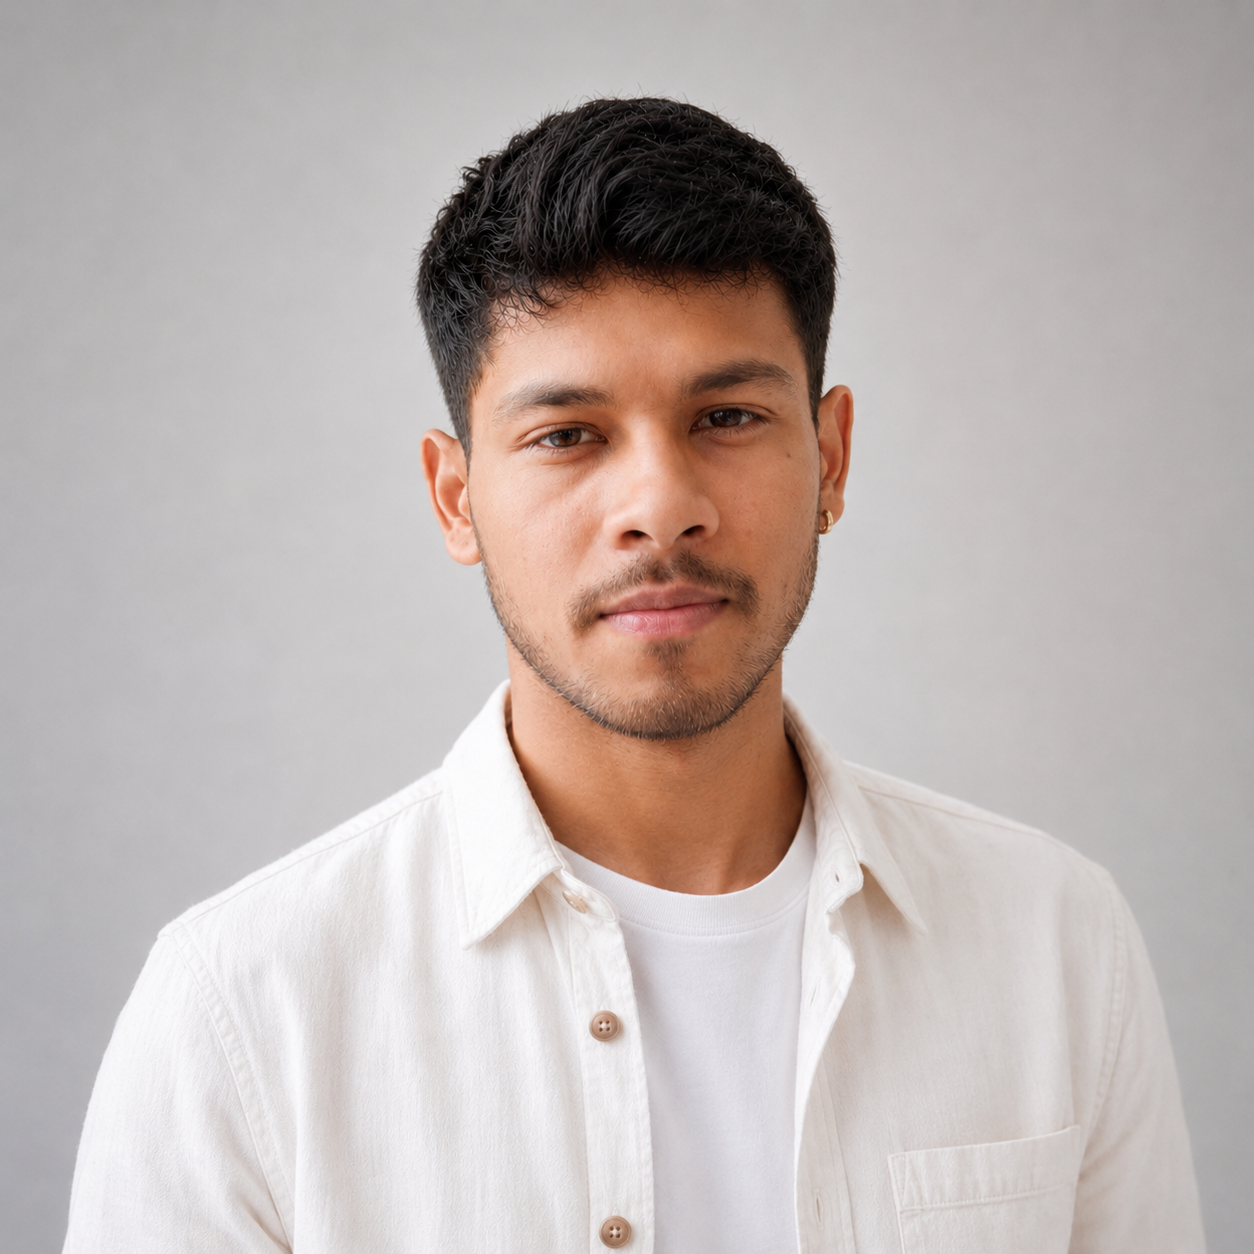
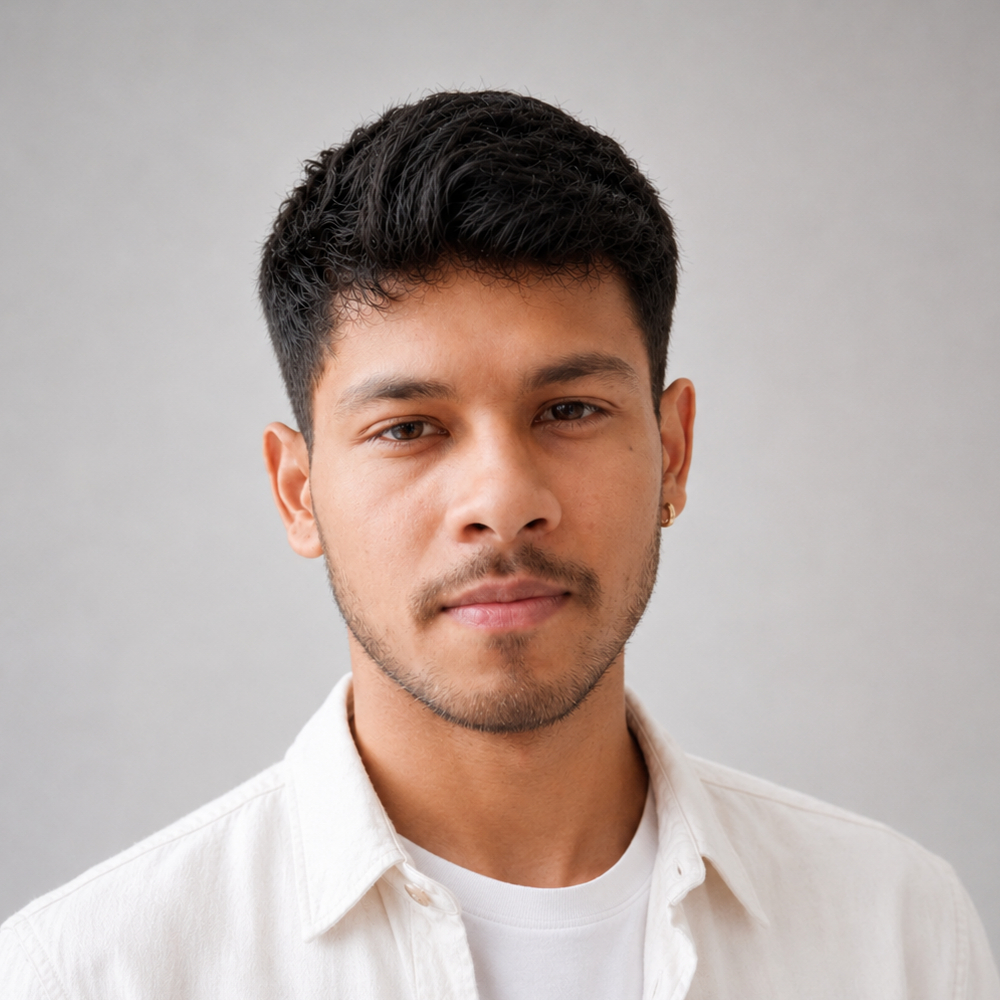
Add files via upload

diff --git a/index.css b/index.css
@@ -2593,3 +2593,27 @@ h1, h2, h3, h4, h5, h6 {
         transform: translateY(0);
     }
 }
+
+@media (max-width: 768px) {
+    .copyright-desktop {
+        display: none !important;
+    }
+    .copyright-mobile {
+        display: block !important;
+        text-align: center;
+        margin-top: 2.5rem;
+        margin-bottom: 1.5rem;
+        color: var(--text-secondary);
+    }
+}
+@media (min-width: 769px) {
+    .copyright-mobile {
+        display: none !important;
+    }
+}
+
+@media (max-width: 768px) {
+    .container {
+        padding: 0 1rem !important;
+    }
+}

diff --git a/about.html b/about.html
@@ -7,7 +7,7 @@
     <link href="https://fonts.googleapis.com/css2?family=Be+Vietnam+Pro:wght@400;500;600;700;800;900&display=swap" rel="stylesheet">
     <link href="https://fonts.googleapis.com/css2?family=Poppins:wght@300;400;600;800;900&display=swap" rel="stylesheet">
     <link rel="icon" type="image/svg+xml" href="favicon.svg">
-    <link rel="stylesheet" href="index.css?v=43">
+    <link rel="stylesheet" href="index.css?v=47">
     <link rel="stylesheet" href="https://cdnjs.cloudflare.com/ajax/libs/font-awesome/6.4.0/css/all.min.css">
     <style>
         .about-content {
@@ -101,7 +101,7 @@
                 
                 <div class="mission-box" style="display: flex; gap: 2rem; align-items: center; flex-wrap: wrap;">
                     <div style="flex-shrink: 0; width: 150px; height: 150px; border-radius: 50%; background-color: rgba(139, 92, 246, 0.1); border: 2px solid var(--accent-primary); display: flex; align-items: center; justify-content: center; overflow: hidden;">
-                        <img src="abhishek_jalal.png?v=2" alt="Abhishek Jalal" style="width: 100%; height: 100%; object-fit: cover; object-position: center; transform: scale(1.15) translateY(5px);">
+                        <img src="abhishek_jalal.png?v=3" alt="Abhishek Jalal" style="width: 100%; height: 100%; object-fit: cover; object-position: center; transform: scale(1.3) translateY(5px);">
                     </div>
                     <div style="flex: 1; min-width: 250px;">
                         <p>"Hi, I'm <span style="color: var(--accent-primary); font-weight: 700;">Abhishek Jalal</span>, founder of <span style="color: #FFFFFF; font-weight: 700;">Elitelab</span><span style="color: var(--accent-primary); font-weight: 700;">.in</span>. With over 3 years of trading experience, I built this platform to cut through the noise and make profitable trading accessible and easy for everyday retail traders."</p>
@@ -158,7 +158,7 @@
                     <i class="fa-regular fa-envelope" style="margin-right: 0.5rem;"></i> 
                     <a href="mailto:[email redacted]" style="color: var(--text-secondary); text-decoration: none;">[email redacted]</a>
                 </p>
-                <p>&copy; 2026 Elitelab.in. All rights reserved.</p>
+                <p class="copyright-desktop">&copy; 2026 Elitelab.in. All rights reserved.</p>
             </div>
             <div class="footer-links">
                 <a href="/privacy">Privacy Policy</a>
@@ -166,6 +166,7 @@
                 <a href="/contact">Contact Support</a>
             </div>
         </div>
+        <div class="copyright-mobile"><p>&copy; 2026 Elitelab.in. All rights reserved.</p></div>
         <div class="container footer-disclaimer">
             <p><strong>Disclaimer:</strong> Trading in financial markets involves a high degree of risk and may not be suitable for all investors. The data, scans, and information provided by Elitelab are for educational and informational purposes only and do not constitute financial advice or trade recommendations. Past performance is not indicative of future results. Always conduct your own research or consult with a qualified, registered financial advisor before making any investment decisions.</p>
         </div>

diff --git a/article-detail.html b/article-detail.html
@@ -8,7 +8,7 @@
     <link href="https://fonts.googleapis.com/css2?family=Be+Vietnam+Pro:wght@400;500;600;700;800;900&display=swap" rel="stylesheet">
     <link href="https://fonts.googleapis.com/css2?family=Poppins:wght@300;400;600;800;900&family=Lora:ital,wght@0,400;0,600;1,400&display=swap" rel="stylesheet">
     <link rel="icon" type="image/svg+xml" href="favicon.svg">
-    <link rel="stylesheet" href="index.css?v=43">
+    <link rel="stylesheet" href="index.css?v=47">
     <link rel="stylesheet" href="https://cdnjs.cloudflare.com/ajax/libs/font-awesome/6.4.0/css/all.min.css">
     <style>
         .article-container {
@@ -289,7 +289,7 @@
                     <i class="fa-regular fa-envelope" style="margin-right: 0.5rem;"></i> 
                     <a href="mailto:[email redacted]" style="color: var(--text-secondary); text-decoration: none;">[email redacted]</a>
                 </p>
-                <p>&copy; 2026 Elitelab.in. All rights reserved.</p>
+                <p class="copyright-desktop">&copy; 2026 Elitelab.in. All rights reserved.</p>
             </div>
             <div class="footer-links">
                 <a href="/privacy">Privacy Policy</a>
@@ -297,6 +297,7 @@
                 <a href="/contact">Contact Support</a>
             </div>
         </div>
+        <div class="copyright-mobile"><p>&copy; 2026 Elitelab.in. All rights reserved.</p></div>
         <div class="container footer-disclaimer">
             <p><strong>Disclaimer:</strong> Trading in financial markets involves a high degree of risk and may not be suitable for all investors. The data, scans, and information provided by Elitelab are for educational and informational purposes only and do not constitute financial advice or trade recommendations. Past performance is not indicative of future results. Always conduct your own research or consult with a qualified, registered financial advisor before making any investment decisions.</p>
         </div>

diff --git a/articles.html b/articles.html
@@ -8,7 +8,7 @@
     <link href="https://fonts.googleapis.com/css2?family=Be+Vietnam+Pro:wght@400;500;600;700;800;900&display=swap" rel="stylesheet">
     <link href="https://fonts.googleapis.com/css2?family=Poppins:wght@300;400;600;800;900&display=swap" rel="stylesheet">
     <link rel="icon" type="image/svg+xml" href="favicon.svg">
-    <link rel="stylesheet" href="index.css?v=43">
+    <link rel="stylesheet" href="index.css?v=47">
     <link rel="stylesheet" href="https://cdnjs.cloudflare.com/ajax/libs/font-awesome/6.4.0/css/all.min.css">
     <style>
         .category-pills {
@@ -315,7 +315,7 @@
                     <i class="fa-regular fa-envelope" style="margin-right: 0.5rem;"></i> 
                     <a href="mailto:[email redacted]" style="color: var(--text-secondary); text-decoration: none;">[email redacted]</a>
                 </p>
-                <p>&copy; 2026 Elitelab.in. All rights reserved.</p>
+                <p class="copyright-desktop">&copy; 2026 Elitelab.in. All rights reserved.</p>
             </div>
             <div class="footer-links">
                 <a href="/privacy">Privacy Policy</a>
@@ -323,6 +323,7 @@
                 <a href="/contact">Contact Support</a>
             </div>
         </div>
+        <div class="copyright-mobile"><p>&copy; 2026 Elitelab.in. All rights reserved.</p></div>
         <div class="container footer-disclaimer">
             <p><strong>Disclaimer:</strong> Trading in financial markets involves a high degree of risk and may not be suitable for all investors. The data, scans, and information provided by Elitelab are for educational and informational purposes only and do not constitute financial advice or trade recommendations. Past performance is not indicative of future results. Always conduct your own research or consult with a qualified, registered financial advisor before making any investment decisions.</p>
         </div>

diff --git a/contact.html b/contact.html
@@ -8,7 +8,7 @@
     <link href="https://fonts.googleapis.com/css2?family=Be+Vietnam+Pro:wght@400;500;600;700;800;900&display=swap" rel="stylesheet">
     <link href="https://fonts.googleapis.com/css2?family=Poppins:wght@300;400;600;800;900&display=swap" rel="stylesheet">
     <link rel="icon" type="image/svg+xml" href="favicon.svg">
-    <link rel="stylesheet" href="index.css?v=43">
+    <link rel="stylesheet" href="index.css?v=47">
     <link rel="stylesheet" href="https://cdnjs.cloudflare.com/ajax/libs/font-awesome/6.4.0/css/all.min.css">
 </head>
 <body>
@@ -120,7 +120,7 @@
                     <i class="fa-regular fa-envelope" style="margin-right: 0.5rem;"></i> 
                     <a href="mailto:[email redacted]" style="color: var(--text-secondary); text-decoration: none;">[email redacted]</a>
                 </p>
-                <p>&copy; 2026 Elitelab.in. All rights reserved.</p>
+                <p class="copyright-desktop">&copy; 2026 Elitelab.in. All rights reserved.</p>
             </div>
             <div class="footer-links">
                 <a href="/privacy">Privacy Policy</a>
@@ -128,6 +128,7 @@
                 <a href="/contact">Contact Support</a>
             </div>
         </div>
+        <div class="copyright-mobile"><p>&copy; 2026 Elitelab.in. All rights reserved.</p></div>
         <div class="container footer-disclaimer">
             <p><strong>Disclaimer:</strong> Trading in financial markets involves a high degree of risk and may not be suitable for all investors. The data, scans, and information provided by Elitelab are for educational and informational purposes only and do not constitute financial advice or trade recommendations. Past performance is not indicative of future results. Always conduct your own research or consult with a qualified, registered financial advisor before making any investment decisions.</p>
         </div>

diff --git a/fundamentals.html b/fundamentals.html
@@ -8,7 +8,7 @@
     <link href="https://fonts.googleapis.com/css2?family=Be+Vietnam+Pro:wght@400;500;600;700;800;900&display=swap" rel="stylesheet">
     <link href="https://fonts.googleapis.com/css2?family=Poppins:wght@300;400;600;800;900&display=swap" rel="stylesheet">
     <link rel="icon" type="image/svg+xml" href="favicon.svg">
-    <link rel="stylesheet" href="index.css?v=43">
+    <link rel="stylesheet" href="index.css?v=47">
     <link rel="stylesheet" href="https://cdnjs.cloudflare.com/ajax/libs/font-awesome/6.4.0/css/all.min.css">
     <!-- Chart.js for the price chart and bar charts -->
     <script src="https://cdn.jsdelivr.net/npm/chart.js"></script>
@@ -387,7 +387,7 @@
                     <i class="fa-regular fa-envelope" style="margin-right: 0.5rem;"></i> 
                     <a href="mailto:[email redacted]" style="color: var(--text-secondary); text-decoration: none;">[email redacted]</a>
                 </p>
-                <p>&copy; 2026 Elitelab.in. All rights reserved.</p>
+                <p class="copyright-desktop">&copy; 2026 Elitelab.in. All rights reserved.</p>
             </div>
             <div class="footer-links">
                 <a href="/privacy">Privacy Policy</a>
@@ -395,6 +395,7 @@
                 <a href="/contact">Contact Support</a>
             </div>
         </div>
+        <div class="copyright-mobile"><p>&copy; 2026 Elitelab.in. All rights reserved.</p></div>
         <div class="container footer-disclaimer">
             <p><strong>Disclaimer:</strong> Trading in financial markets involves a high degree of risk and may not be suitable for all investors. The data, scans, and information provided by Elitelab are for educational and informational purposes only and do not constitute financial advice or trade recommendations. Past performance is not indicative of future results. Always conduct your own research or consult with a qualified, registered financial advisor before making any investment decisions.</p>
         </div>

diff --git a/index.html b/index.html
@@ -8,7 +8,7 @@
     <link href="https://fonts.googleapis.com/css2?family=Be+Vietnam+Pro:wght@400;500;600;700;800;900&display=swap" rel="stylesheet">
     <link href="https://fonts.googleapis.com/css2?family=Poppins:wght@300;400;600;800;900&display=swap" rel="stylesheet">
     <link rel="icon" type="image/svg+xml" href="favicon.svg">
-    <link rel="stylesheet" href="index.css?v=43">
+    <link rel="stylesheet" href="index.css?v=47">
     <link rel="stylesheet" href="https://cdnjs.cloudflare.com/ajax/libs/font-awesome/6.4.0/css/all.min.css">
 </head>
 <body>
@@ -137,7 +137,7 @@
                     <i class="fa-regular fa-envelope" style="margin-right: 0.5rem;"></i> 
                     <a href="mailto:[email redacted]" style="color: var(--text-secondary); text-decoration: none;">[email redacted]</a>
                 </p>
-                <p>&copy; 2026 Elitelab.in. All rights reserved.</p>
+                <p class="copyright-desktop">&copy; 2026 Elitelab.in. All rights reserved.</p>
             </div>
             <div class="footer-links">
                 <a href="/privacy">Privacy Policy</a>
@@ -145,6 +145,7 @@
                 <a href="/contact">Contact Support</a>
             </div>
         </div>
+        <div class="copyright-mobile"><p>&copy; 2026 Elitelab.in. All rights reserved.</p></div>
         <div class="container footer-disclaimer">
             <p><strong>Disclaimer:</strong> Trading in financial markets involves a high degree of risk and may not be suitable for all investors. The data, scans, and information provided by Elitelab are for educational and informational purposes only and do not constitute financial advice or trade recommendations. Past performance is not indicative of future results. Always conduct your own research or consult with a qualified, registered financial advisor before making any investment decisions.</p>
         </div>

diff --git a/indian-market-news.html b/indian-market-news.html
@@ -8,7 +8,7 @@
     <link href="https://fonts.googleapis.com/css2?family=Be+Vietnam+Pro:wght@400;500;600;700;800;900&display=swap" rel="stylesheet">
     <link href="https://fonts.googleapis.com/css2?family=Poppins:wght@300;400;600;800;900&display=swap" rel="stylesheet">
     <link rel="icon" type="image/svg+xml" href="favicon.svg">
-    <link rel="stylesheet" href="index.css?v=43">
+    <link rel="stylesheet" href="index.css?v=47">
     <link rel="stylesheet" href="https://cdnjs.cloudflare.com/ajax/libs/font-awesome/6.4.0/css/all.min.css">
 </head>
 <body>
@@ -91,7 +91,7 @@
                     <i class="fa-regular fa-envelope" style="margin-right: 0.5rem;"></i> 
                     <a href="mailto:[email redacted]" style="color: var(--text-secondary); text-decoration: none;">[email redacted]</a>
                 </p>
-                <p>&copy; 2026 Elitelab.in. All rights reserved.</p>
+                <p class="copyright-desktop">&copy; 2026 Elitelab.in. All rights reserved.</p>
             </div>
             <div class="footer-links">
                 <a href="/privacy">Privacy Policy</a>
@@ -99,6 +99,7 @@
                 <a href="/contact">Contact Support</a>
             </div>
         </div>
+        <div class="copyright-mobile"><p>&copy; 2026 Elitelab.in. All rights reserved.</p></div>
         <div class="container footer-disclaimer">
             <p><strong>Disclaimer:</strong> Trading in financial markets involves a high degree of risk and may not be suitable for all investors. The data, scans, and information provided by Elitelab are for educational and informational purposes only and do not constitute financial advice or trade recommendations. Past performance is not indicative of future results. Always conduct your own research or consult with a qualified, registered financial advisor before making any investment decisions.</p>
         </div>

diff --git a/privacy.html b/privacy.html
@@ -8,7 +8,7 @@
     <link href="https://fonts.googleapis.com/css2?family=Be+Vietnam+Pro:wght@400;500;600;700;800;900&display=swap" rel="stylesheet">
     <link href="https://fonts.googleapis.com/css2?family=Poppins:wght@300;400;600;800;900&display=swap" rel="stylesheet">
     <link rel="icon" type="image/svg+xml" href="favicon.svg">
-    <link rel="stylesheet" href="index.css?v=43">
+    <link rel="stylesheet" href="index.css?v=47">
     <link rel="stylesheet" href="https://cdnjs.cloudflare.com/ajax/libs/font-awesome/6.4.0/css/all.min.css">
     <style>
         .legal-content {
@@ -128,7 +128,7 @@
                     <i class="fa-regular fa-envelope" style="margin-right: 0.5rem;"></i> 
                     <a href="mailto:[email redacted]" style="color: var(--text-secondary); text-decoration: none;">[email redacted]</a>
                 </p>
-                <p>&copy; 2026 Elitelab.in. All rights reserved.</p>
+                <p class="copyright-desktop">&copy; 2026 Elitelab.in. All rights reserved.</p>
             </div>
             <div class="footer-links">
                 <a href="/privacy">Privacy Policy</a>
@@ -136,6 +136,7 @@
                 <a href="/contact">Contact Support</a>
             </div>
         </div>
+        <div class="copyright-mobile"><p>&copy; 2026 Elitelab.in. All rights reserved.</p></div>
         <div class="container footer-disclaimer">
             <p><strong>Disclaimer:</strong> Trading in financial markets involves a high degree of risk and may not be suitable for all investors. The data, scans, and information provided by Elitelab are for educational and informational purposes only and do not constitute financial advice or trade recommendations. Past performance is not indicative of future results. Always conduct your own research or consult with a qualified, registered financial advisor before making any investment decisions.</p>
         </div>

diff --git a/terms.html b/terms.html
@@ -8,7 +8,7 @@
     <link href="https://fonts.googleapis.com/css2?family=Be+Vietnam+Pro:wght@400;500;600;700;800;900&display=swap" rel="stylesheet">
     <link href="https://fonts.googleapis.com/css2?family=Poppins:wght@300;400;600;800;900&display=swap" rel="stylesheet">
     <link rel="icon" type="image/svg+xml" href="favicon.svg">
-    <link rel="stylesheet" href="index.css?v=43">
+    <link rel="stylesheet" href="index.css?v=47">
     <link rel="stylesheet" href="https://cdnjs.cloudflare.com/ajax/libs/font-awesome/6.4.0/css/all.min.css">
     <style>
         .legal-content {
@@ -129,7 +129,7 @@
                     <i class="fa-regular fa-envelope" style="margin-right: 0.5rem;"></i> 
                     <a href="mailto:[email redacted]" style="color: var(--text-secondary); text-decoration: none;">[email redacted]</a>
                 </p>
-                <p>&copy; 2026 Elitelab.in. All rights reserved.</p>
+                <p class="copyright-desktop">&copy; 2026 Elitelab.in. All rights reserved.</p>
             </div>
             <div class="footer-links">
                 <a href="/privacy">Privacy Policy</a>
@@ -137,6 +137,7 @@
                 <a href="/contact">Contact Support</a>
             </div>
         </div>
+        <div class="copyright-mobile"><p>&copy; 2026 Elitelab.in. All rights reserved.</p></div>
         <div class="container footer-disclaimer">
             <p><strong>Disclaimer:</strong> Trading in financial markets involves a high degree of risk and may not be suitable for all investors. The data, scans, and information provided by Elitelab are for educational and informational purposes only and do not constitute financial advice or trade recommendations. Past performance is not indicative of future results. Always conduct your own research or consult with a qualified, registered financial advisor before making any investment decisions.</p>
         </div>